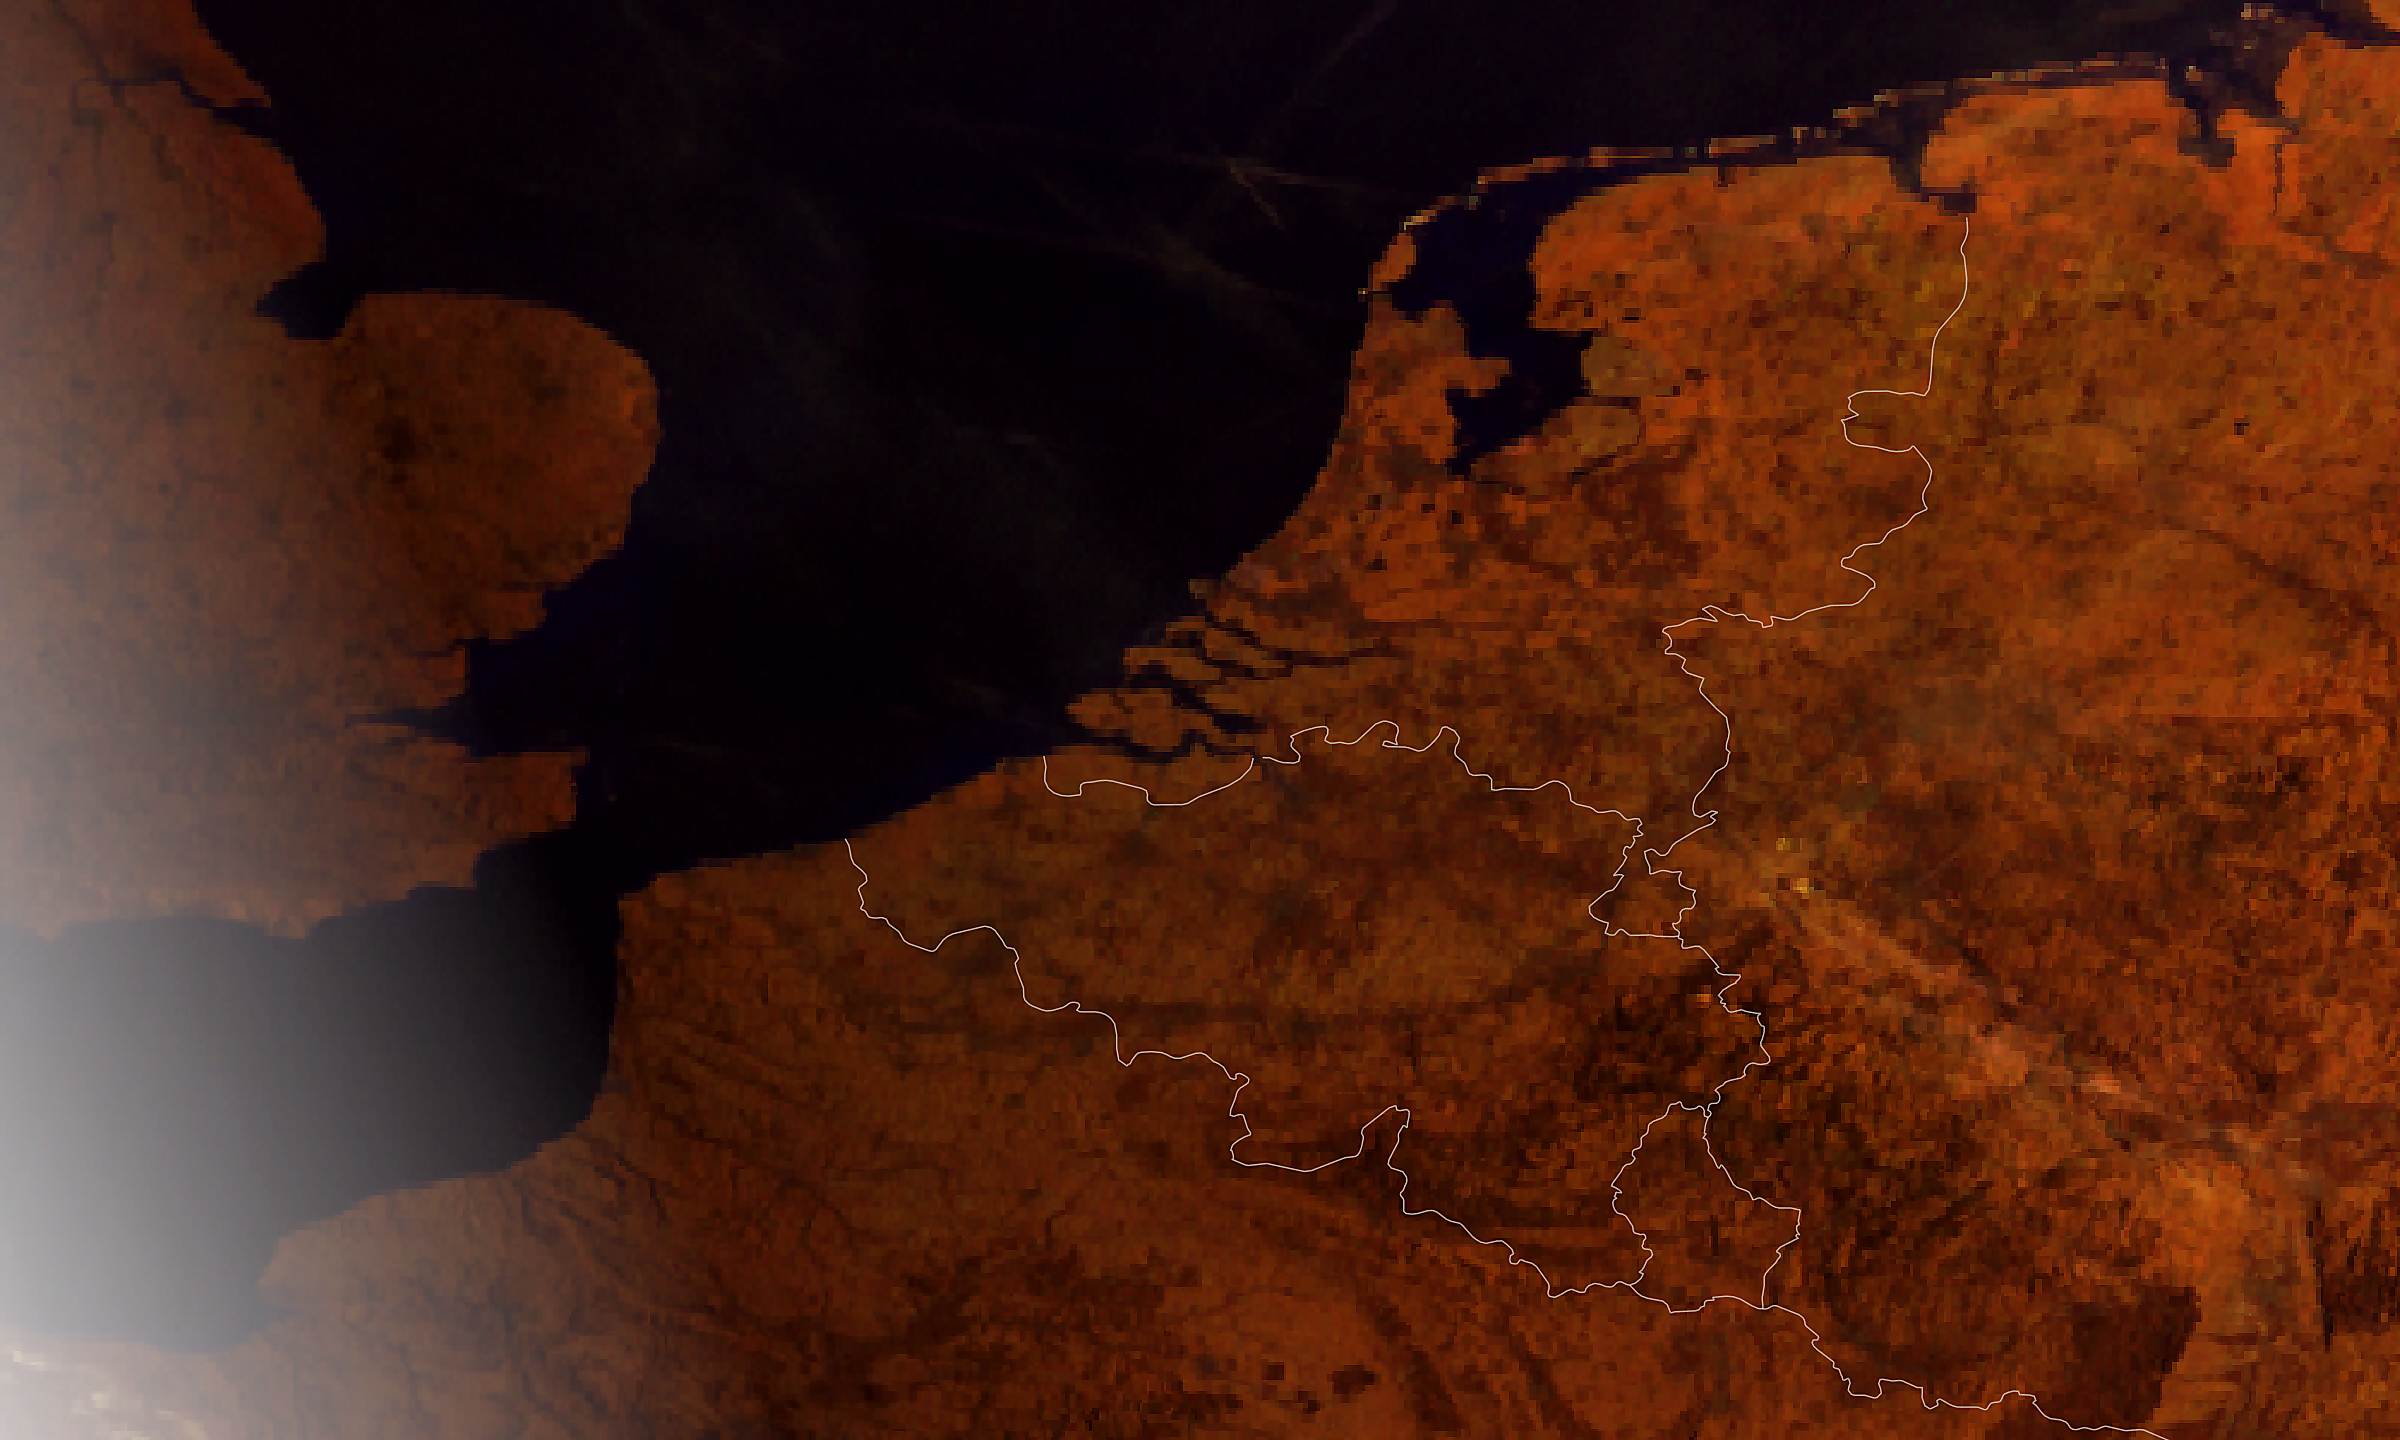
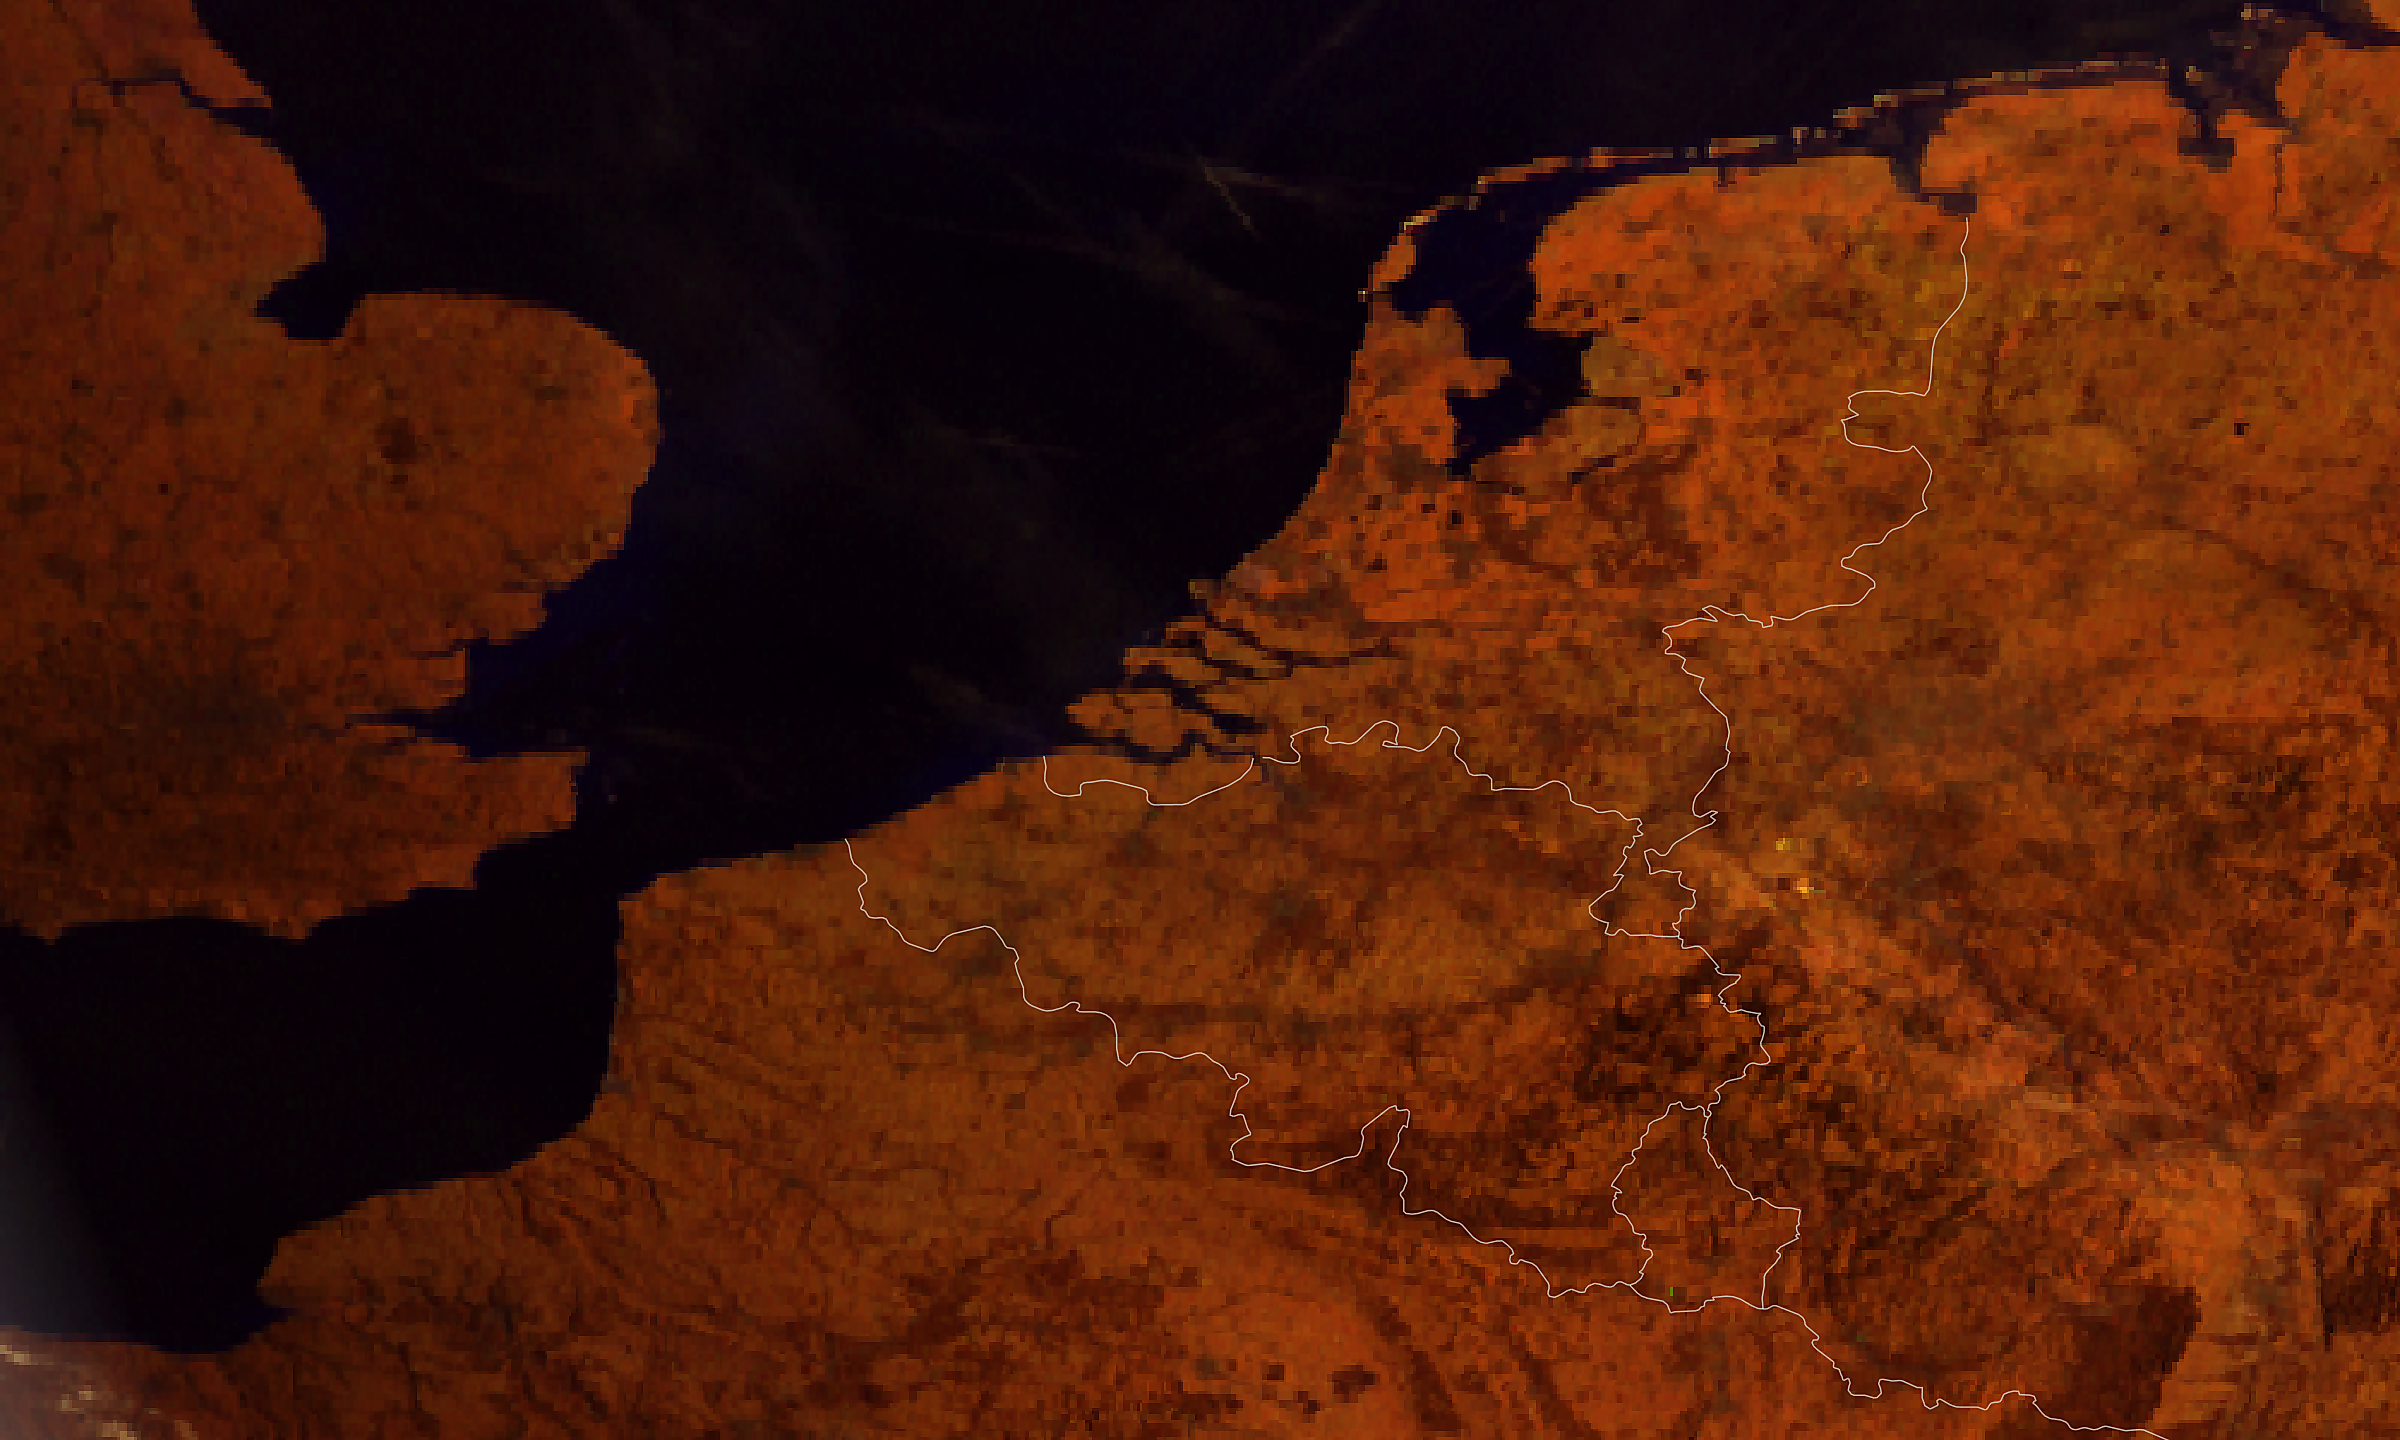
MTG Benelux satellietbeeld update 2026-04-30 07:45

diff --git a/mtg_benelux_meta.js b/mtg_benelux_meta.js
@@ -1,2 +1,2 @@
 const MTG_BENELUX_PRODUCT = "mtg_fd:rgb_cloudphase";
-const MTG_BENELUX_TIJD = "2026-04-30T05:10:00Z";
+const MTG_BENELUX_TIJD = "2026-04-30T05:20:00Z";
